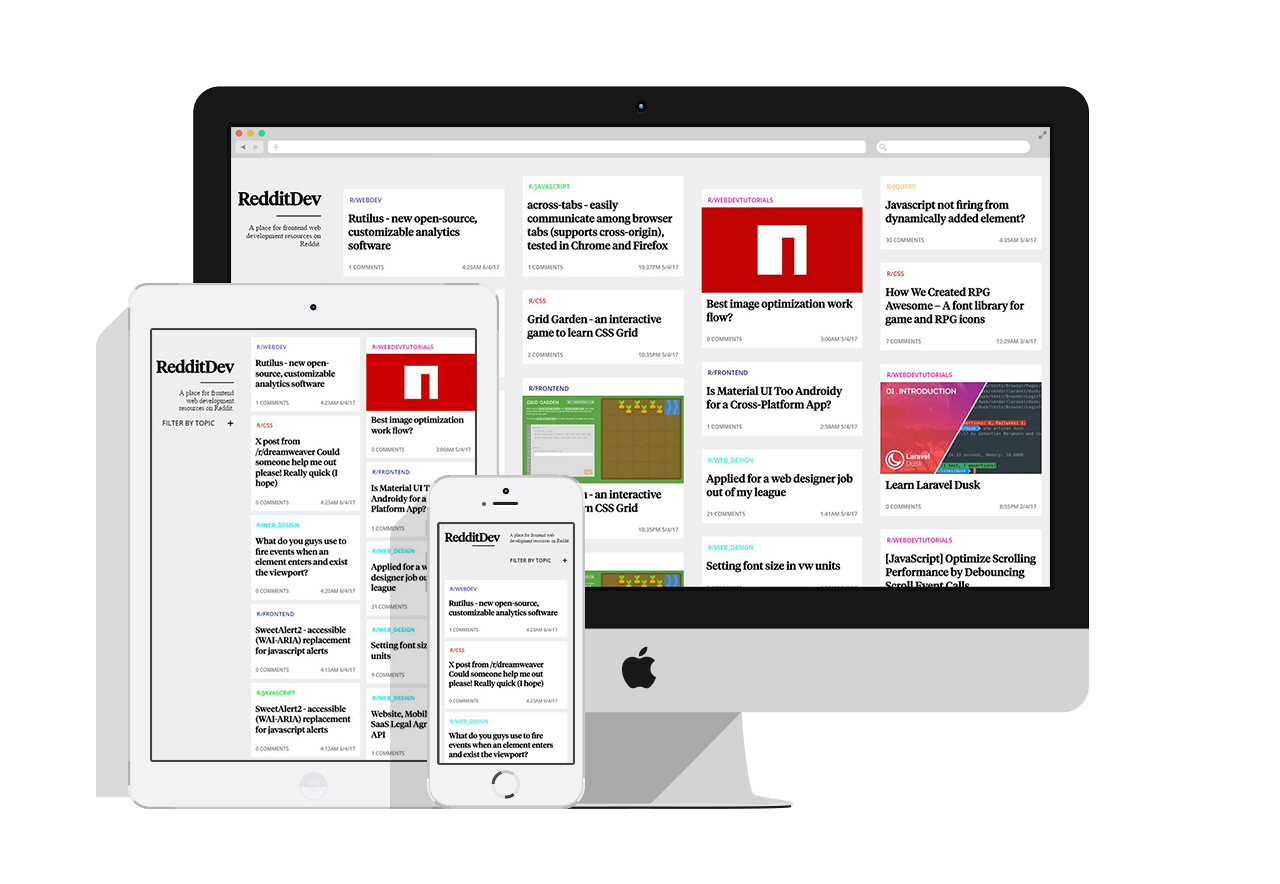
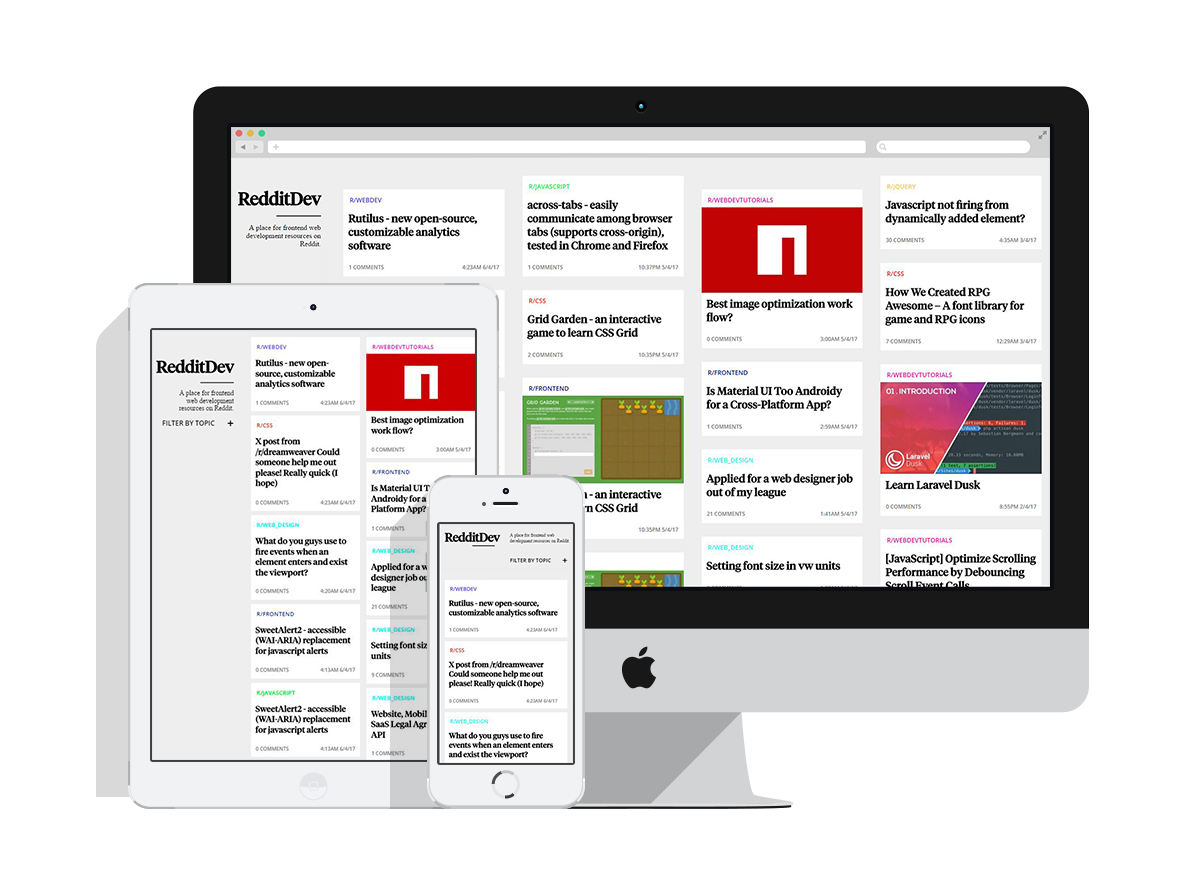
Set max width of image no srcset

Changed region(s): [[0.0617, 0.0916, 0.925, 0.9163], [0.6783, 0.1527, 0.74, 0.1833]]

diff --git a/app/temp/assets/styles/styles.css b/app/temp/assets/styles/styles.css
@@ -1,6 +1,7 @@
 /* ***** RESETS ***** */
-html {
+* {
     margin: 0px;
+    padding: 0;
 }
 body {
     margin: 0px;
@@ -94,6 +95,8 @@ text-rendering: geometricPrecision !important;
 .hr {
     border: solid 2px #a9a9a9;
     width: 40px;
+    margin-left: auto;
+    margin-right: auto;
 }
 .fadeOut {
     -webkit-animation-name: fadeOut;
@@ -1287,6 +1290,8 @@ position: relative;
 }
 .device-screenshots {
     width: 1000px;
+    max-width: 100vw;
+    margin-left: -1em;
 }
 .btn-return {
     margin: 0px auto;
@@ -1323,11 +1328,21 @@ position: relative;
     -webkit-transition: all ease 0.3s;
     -moz-transition: all ease 0.3s;
 }
+.details__tech-list {
+       margin: 10px 0px 100px 0px;
+       padding: 0;
+}
 .details__tech-list li {
-    display: inline-block;
-    margin: 10px 25px 100px 25px;
+    display: block;
+    margin: 0 25px;
     color: #a9a9a9;
-    font-size: 2.5rem;
+    font-size: 1.75rem;
+}
+@media (min-width: 1200px) {
+    .details__tech-list li {
+        font-size: 2.5rem;
+        display: inline-block;
+    }
 }
 .details__full-summary {
     font-size: 1.75rem;

diff --git a/app/assets/styles/modules/_projects-page.css b/app/assets/styles/modules/_projects-page.css
@@ -130,6 +130,8 @@ margin-bottom: 5rem;
 
 .device-screenshots {
     width: 1000px;
+    max-width: 100vw;
+    margin-left: -1em;
 }
 
 .btn-return {
@@ -167,11 +169,19 @@ margin-bottom: 5rem;
     -moz-transition: all ease 0.3s;
 }
 
+.details__tech-list {
+       margin: 10px 0px 100px 0px;
+       padding: 0;
+}
 .details__tech-list li {
-    display: inline-block;
-    margin: 10px 25px 100px 25px;
+    display: block;
+    margin: 0 25px;
     color: #a9a9a9;
+    font-size: 1.75rem;
+    @mixin atLarge {
     font-size: 2.5rem;
+    display: inline-block;
+}
 }
 
 .details__full-summary {

diff --git a/app/assets/styles/base/_global.css b/app/assets/styles/base/_global.css
@@ -75,6 +75,8 @@ text-rendering: geometricPrecision !important;
 .hr {
     border: solid 2px #a9a9a9;
     width: 40px;
+    margin-left: auto;
+    margin-right: auto;
 }
 .fadeOut {
     -webkit-animation-name: fadeOut;

diff --git a/app/assets/styles/base/_reset.css b/app/assets/styles/base/_reset.css
@@ -1,7 +1,8 @@
 /* ***** RESETS ***** */
 
-html {
+* {
     margin: 0px;
+    padding: 0;
 }
 body {
     margin: 0px;
